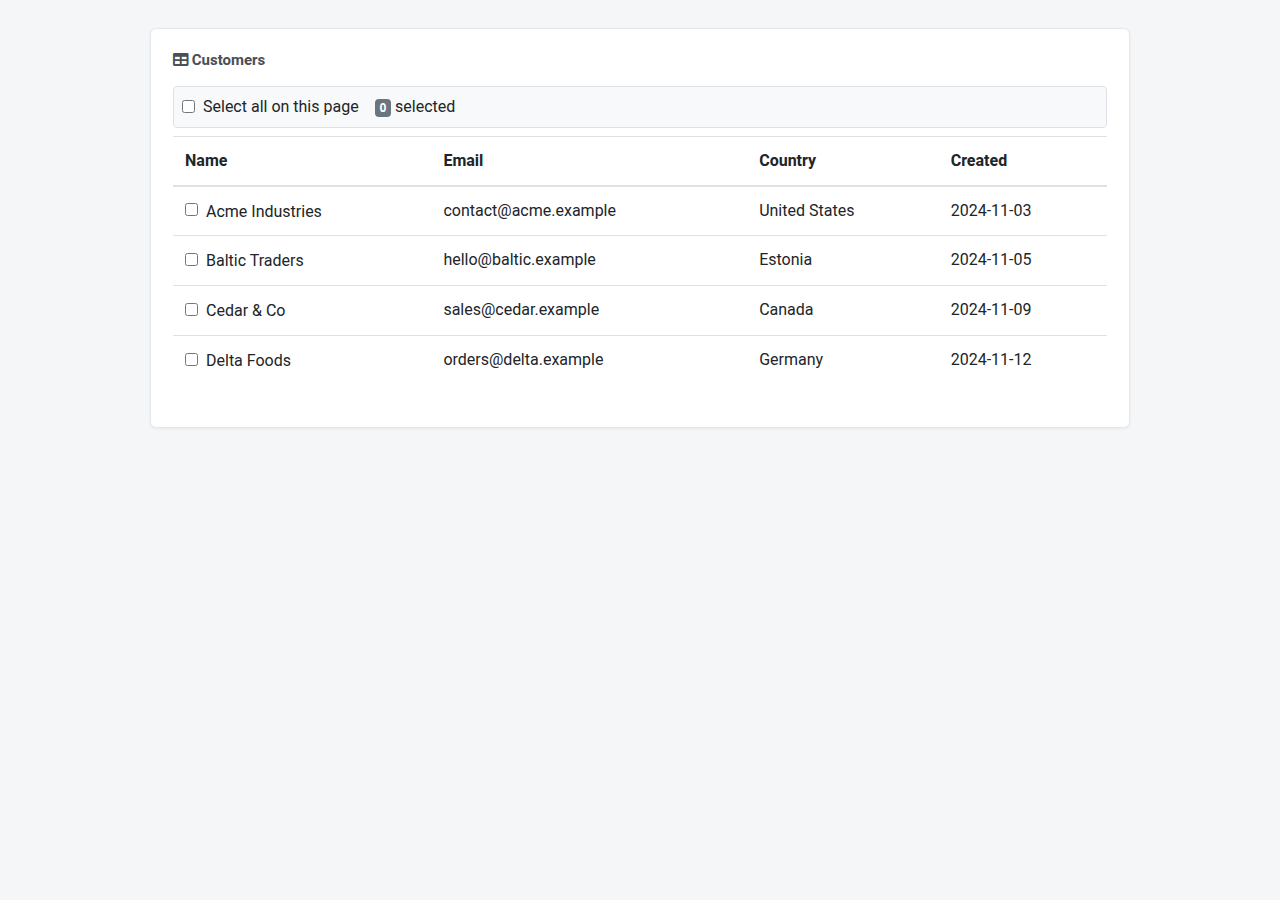
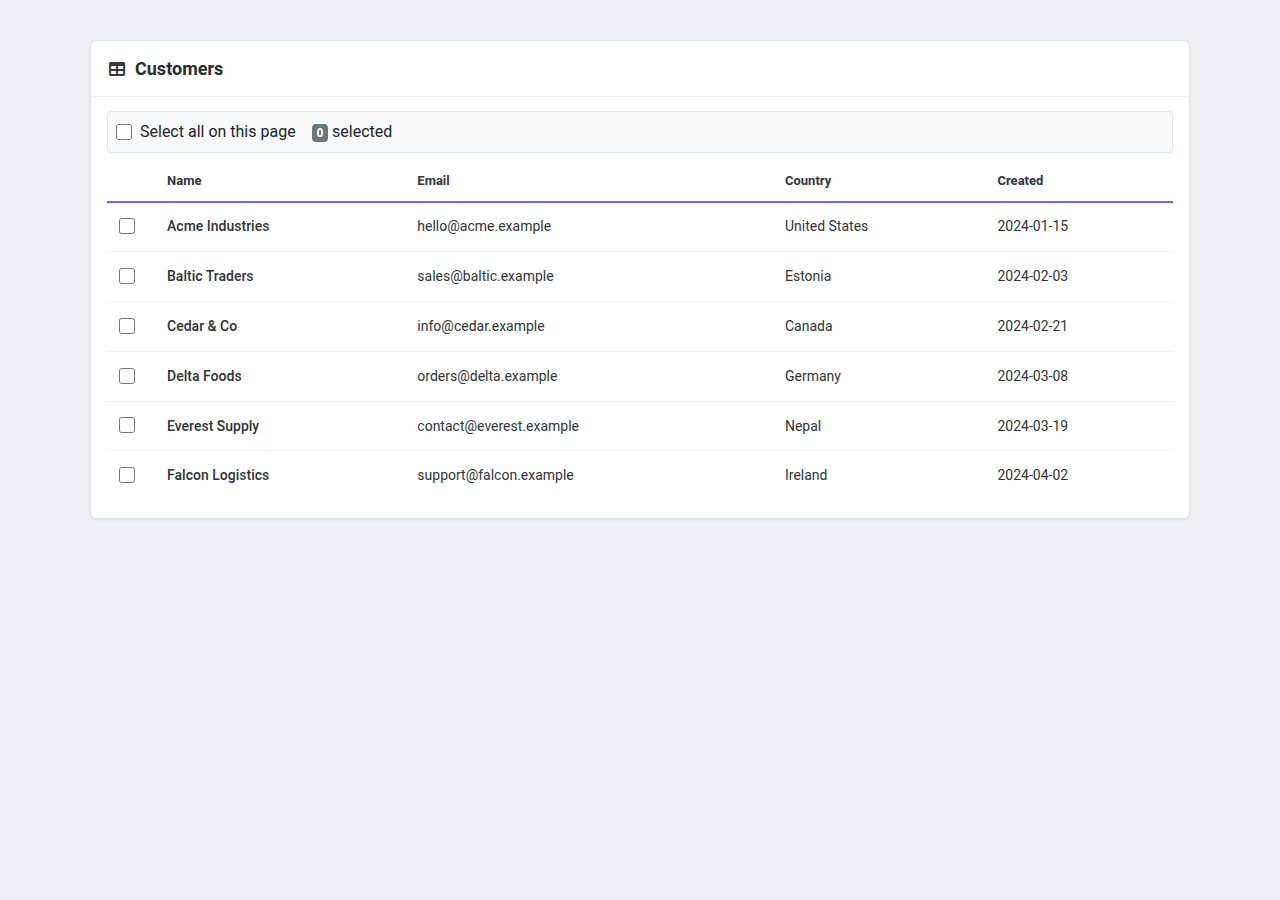
Refine PcGrid bulk-action messaging and executive summary deliverables
Reword the bulk archive and bulk delete result messages to active voice
across the REST controller and the PcGrid partial-failure fallback, so the
server-side and client-side wording read consistently.

Update the executive summary deck: add a Critical risk tier, align the
risk table to Critical, High, Medium, Medium, Low to match the critical
decision review, and raise the code-block contrast for readability.

Restructure the critical decision review into five risk-ordered decisions,
quote the exact delete confirmation wording, and correct the inline-script
source anchor.

Regenerate the selection-column, toolbar, and delete-confirmation
screenshots so they match the shipped confirmation wording and selection
counts.

Restore the local PostgreSQL connection string used for development.

diff --git a/blitzy-deck/bulk-actions-executive-summary.html b/blitzy-deck/bulk-actions-executive-summary.html
@@ -90,9 +90,10 @@
             font-size: 0.5em;
         }
         .reveal pre code {
-            background: rgba(4, 8, 22, 0.75);
-            color: #D7DCF5;
-            border: 1px solid var(--blitzy-surface-line);
+            display: block;
+            background: #05070F;
+            color: #F2F4FF;
+            border: 1px solid rgba(124, 92, 252, 0.5);
             border-radius: 12px;
             padding: 16px 18px;
             max-height: none;
@@ -184,6 +185,7 @@
         .reveal table tr:nth-child(even) td { background: rgba(124, 92, 252, 0.05); }
 
         .risk-pill { font-weight: 700; padding: 3px 10px; border-radius: 999px; font-size: 0.9em; white-space: nowrap; }
+        .risk-critical { background: var(--blitzy-danger); color: #FFFFFF; border: 1px solid #FF6B6B; box-shadow: 0 0 0 1px rgba(239, 68, 68, 0.55); }
         .risk-high { background: rgba(239, 68, 68, 0.16); color: #FF8A8A; border: 1px solid rgba(239, 68, 68, 0.4); }
         .risk-med { background: rgba(245, 158, 11, 0.16); color: #FFCB73; border: 1px solid rgba(245, 158, 11, 0.4); }
         .risk-low { background: rgba(34, 197, 94, 0.16); color: #86EFAC; border: 1px solid rgba(34, 197, 94, 0.4); }
@@ -501,7 +503,7 @@ return BuildBulkResponse(results, "deleted");   // 200 all ok, 207 mixed, 422 no
                 <tbody>
                     <tr>
                         <td>Permanent bulk delete removes records for good</td>
-                        <td><span class="risk-pill risk-high">High</span></td>
+                        <td><span class="risk-pill risk-critical">Critical</span></td>
                         <td>Count-aware confirmation names the permanence; per-record transaction; authorization per record.</td>
                         <td>Security lead</td>
                     </tr>

diff --git a/WebVella.Erp.Web/Controllers/WebApiController.cs b/WebVella.Erp.Web/Controllers/WebApiController.cs
@@ -1794,7 +1794,7 @@ namespace WebVella.Erp.Web.Controllers
 			{
 				Success = false,
 				Timestamp = DateTime.UtcNow,
-				Message = "The bulk " + actionNoun + " request could not be processed.",
+				Message = "The server could not process the bulk " + actionNoun + " request.",
 				Object = new List<BulkRecordActionResultItem>()
 			};
 			HttpContext.Response.StatusCode = (int)HttpStatusCode.InternalServerError;
@@ -1819,19 +1819,19 @@ namespace WebVella.Erp.Web.Controllers
 			if (failed == 0)
 			{
 				response.Success = true;
-				response.Message = "All " + total + " record(s) " + pastTenseAction + ".";
+				response.Message = "The server " + pastTenseAction + " all " + total + " record(s).";
 				HttpContext.Response.StatusCode = (int)HttpStatusCode.OK;
 			}
 			else if (succeeded == 0)
 			{
 				response.Success = false;
-				response.Message = "No record could be " + pastTenseAction + ".";
+				response.Message = "The server " + pastTenseAction + " no records.";
 				HttpContext.Response.StatusCode = (int)HttpStatusCode.UnprocessableEntity;
 			}
 			else
 			{
 				response.Success = false;
-				response.Message = succeeded + " of " + total + " record(s) " + pastTenseAction + ". " + failed + " failed.";
+				response.Message = "The server " + pastTenseAction + " " + succeeded + " of " + total + " record(s), and " + failed + " failed.";
 				HttpContext.Response.StatusCode = (int)HttpStatusCode.MultiStatus;
 			}
 
@@ -1894,7 +1894,7 @@ namespace WebVella.Erp.Web.Controllers
 			// Reject a cross-site request before any record changes. The check runs first so a forged
 			// cross-origin post never reaches the delete loop.
 			if (!IsBulkRequestOriginTrusted())
-				return BulkForbidden("The request origin is not allowed.");
+				return BulkForbidden("The server does not trust the request origin.");
 
 			List<Guid> recordIds;
 			// Validate the request and resolve entity metadata inside a guard so an unexpected failure
@@ -1925,20 +1925,20 @@ namespace WebVella.Erp.Web.Controllers
 						{
 							connection.CommitTransaction();
 							transactionStarted = false;
-							results.Add(BulkOk(id, "Record deleted."));
+							results.Add(BulkOk(id, "The server deleted the record."));
 						}
 						else
 						{
 							SafeRollbackBulk(connection, ref transactionStarted, "BulkDelete", model.EntityName, id);
 							LogBulkFailure("BulkDelete", model.EntityName, id, DescribeBulkFailure(r), null);
-							results.Add(MapBulkFailure(id, r, "The record could not be deleted."));
+							results.Add(MapBulkFailure(id, r, "The server could not delete the record."));
 						}
 					}
 					catch (Exception ex)
 					{
 						SafeRollbackBulk(connection, ref transactionStarted, "BulkDelete", model.EntityName, id);
 						LogBulkFailure("BulkDelete", model.EntityName, id, null, ex);
-						results.Add(BulkFail(id, "error", "The record could not be deleted."));
+						results.Add(BulkFail(id, "error", "The server could not delete the record."));
 					}
 				}
 			}
@@ -1956,7 +1956,7 @@ namespace WebVella.Erp.Web.Controllers
 			// Reject a cross-site request before any record changes. The check runs first so a forged
 			// cross-origin post never reaches the archive loop.
 			if (!IsBulkRequestOriginTrusted())
-				return BulkForbidden("The request origin is not allowed.");
+				return BulkForbidden("The server does not trust the request origin.");
 
 			List<Guid> recordIds;
 			// The bulk-archive write target is fixed to the approved field; a request cannot redirect it.
@@ -1973,7 +1973,7 @@ namespace WebVella.Erp.Web.Controllers
 				// field outside the allowlist gets rejected, so a caller cannot redirect the write.
 				var requestedField = string.IsNullOrWhiteSpace(model.ArchiveFieldName) ? BulkArchiveApprovedField : model.ArchiveFieldName.Trim();
 				if (!BulkArchiveAllowedFields.Contains(requestedField))
-					return BulkBadRequest("The requested archive field is not allowed.");
+					return BulkBadRequest("The server does not allow the requested archive field.");
 
 				// Confirm the approved field exists on the entity and is a checkbox (boolean). A missing or
 				// wrong-type field fails the whole request, so the server never reports a false archive.
@@ -2012,20 +2012,20 @@ namespace WebVella.Erp.Web.Controllers
 						{
 							connection.CommitTransaction();
 							transactionStarted = false;
-							results.Add(BulkOk(id, "Record archived."));
+							results.Add(BulkOk(id, "The server archived the record."));
 						}
 						else
 						{
 							SafeRollbackBulk(connection, ref transactionStarted, "BulkArchive", model.EntityName, id);
 							LogBulkFailure("BulkArchive", model.EntityName, id, DescribeBulkFailure(r), null);
-							results.Add(MapBulkFailure(id, r, "The record could not be archived."));
+							results.Add(MapBulkFailure(id, r, "The server could not archive the record."));
 						}
 					}
 					catch (Exception ex)
 					{
 						SafeRollbackBulk(connection, ref transactionStarted, "BulkArchive", model.EntityName, id);
 						LogBulkFailure("BulkArchive", model.EntityName, id, null, ex);
-						results.Add(BulkFail(id, "error", "The record could not be archived."));
+						results.Add(BulkFail(id, "error", "The server could not archive the record."));
 					}
 				}
 			}

diff --git a/docs/review/CRITICAL_DECISIONS.md b/docs/review/CRITICAL_DECISIONS.md
@@ -1,46 +1,46 @@
 # Critical Decision Review: PcGrid Bulk Archive and Bulk Delete
 
-The WebVella ERP team added bulk archive and bulk delete to the PcGrid list view. The feature lets a user select several records on the rendered page and act on the whole selection in one request, with a reversible Archive and a permanent Delete. The document below records the five highest-risk decisions behind that feature, ordered from highest risk to lowest. Each entry states the decision, the rationale, the risk level, and the reviewer persona who should sign off. Three concerns drove the ordering: irreversible data loss, authorization, and the assumptions that resolved gaps the prompt left open.
+The WebVella ERP team added bulk archive and bulk delete to the PcGrid list view. The feature lets a user select several records on the rendered page and act on the whole selection in one request, with a reversible Archive and a permanent Delete. The document below records the five highest-risk decisions behind that feature, ordered from highest risk to lowest. Each entry states the decision, the rationale, the risk level, and the reviewer persona who should sign off. The ranking follows the severity of each concern, starting with irreversible data loss, then authorization, then batch reliability and client placement, and ending with the assumptions that resolved gaps the prompt left open.
 
 The application code diff covers six files. The four PcGrid component files are `WebVella.Erp.Web/Components/PcGrid/PcGrid.cs`, `WebVella.Erp.Web/Components/PcGrid/Display.cshtml`, `WebVella.Erp.Web/Components/PcGrid/service.js`, and `WebVella.Erp.Web/Components/PcGrid/Options.cshtml`. The controller `WebVella.Erp.Web/Controllers/WebApiController.cs` gains the two bulk actions, and the new `WebVella.Erp.Web/Models/BulkRecordActionModel.cs` carries the request and per-record result models. The `Display.cshtml` view now renders the per-row selection checkboxes, the contextual toolbar, and the inline script, and `Options.cshtml` now exposes the admin configuration fields. Every new option defaults to off, so grids that do not opt in render as they do today.
 
 ## Decision 1: Permanent bulk delete removes records with no recovery path
 
-- **Decision:** Bulk delete calls `RecordManager.DeleteRecord` once per selected record (`WebVella.Erp/Api/RecordManager.cs:1627`), which permanently removes each record. The feature builds no trash bin and no restore path. The new `BulkDeleteRecords` action (`WebVella.Erp.Web/Controllers/WebApiController.cs:1892`) mirrors the single-record delete transaction template (`WebVella.Erp.Web/Controllers/WebApiController.cs:1408-1438`). The `Display.cshtml` inline script guards the action with a count-aware native `confirm()` dialog that runs before the request fires, with wording such as "Permanently delete N record(s)? The records cannot be recovered."
+- **Decision:** Bulk delete calls `RecordManager.DeleteRecord` once per selected record (`WebVella.Erp/Api/RecordManager.cs:1627`), which permanently removes each record. The feature builds no trash bin and no restore path. The new `BulkDeleteRecords` action (`WebVella.Erp.Web/Controllers/WebApiController.cs:1892`) mirrors the single-record delete transaction template (`WebVella.Erp.Web/Controllers/WebApiController.cs:1408-1438`). The `Display.cshtml` inline script guards the action with a count-aware native `confirm()` dialog that runs before the request fires, and the dialog reads "Permanently delete N record(s)? You cannot recover them."
 - **Rationale:** The prompt asks for a true delete alongside a reversible archive, so the delete stays permanent at the data layer. The confirmation follows the repository destructive-action convention that pairs a native `confirm()` with a jQuery ajax call (`WebVella.Erp.Web/TagHelpers/WvFieldUserFileMultiple/form.js:19-45`). The repository ships toastr for transient notifications through the WebVella tag-helper chrome but provides no styled confirmation modal, so the count-aware wording carries the permanence signal that a modal would otherwise supply, and the script falls back to a native `alert()` when toastr is absent.
 - **Risk level:** Critical. A wrong click destroys data for every selected record at once, and no undo exists.
 - **Reviewer persona:** Data-integrity or security reviewer.
 
-## Decision 2: Cross-origin requests cannot trigger the destructive bulk endpoints
+## Decision 2: Authorization runs per record, and cross-origin requests cannot trigger the bulk endpoints
 
-- **Decision:** Both bulk actions call `IsBulkRequestOriginTrusted()` (`WebVella.Erp.Web/Controllers/WebApiController.cs:1646`) as the first step and return 403 through `BulkForbidden()` (`WebVella.Erp.Web/Controllers/WebApiController.cs:1668`) when the `Origin` or `Referer` host does not match the request host, or when the request carries neither header. The endpoints accept only an `application/json` body bound through `[FromBody]`.
-- **Rationale:** The API authenticates with a cookie and applies no antiforgery token, which matches the single-record delete and update actions. A same-host `Origin` and `Referer` check, paired with the JSON-only contract, stops a cross-site page from driving a destructive bulk request with the signed-in user's cookie. The grid's own same-origin ajax passes the check without change, so the guard adds no friction to normal use.
-- **Risk level:** High. Without the check, a malicious page could submit a bulk delete on behalf of an authenticated user.
+- **Decision:** The bulk path constructs the default `RecordManager`, which keeps `ignoreSecurity` false and `executeHooks` true (`WebVella.Erp/Api/RecordManager.cs:40`). `DeleteRecord` checks `EntityPermission.Delete` for each record (`WebVella.Erp/Api/RecordManager.cs:1647`), and `UpdateRecord` checks `EntityPermission.Update` for each record (`WebVella.Erp/Api/RecordManager.cs:984`). `BulkArchiveRecords` adds a field-level guard: when the `is_archived` field turns on `EnableSecurity`, `CurrentUserCanUpdateSecuredField()` (`WebVella.Erp.Web/Controllers/WebApiController.cs:1686`) confirms the user holds a role in the field's `CanUpdate` list, and the action returns 403 otherwise. An administrator and the system user bypass the field check, which matches the field-security convention the repository already uses. Both bulk actions also call `IsBulkRequestOriginTrusted()` (`WebVella.Erp.Web/Controllers/WebApiController.cs:1646`) as the first step and return 403 through `BulkForbidden()` (`WebVella.Erp.Web/Controllers/WebApiController.cs:1668`) when the `Origin` or `Referer` host does not match the request host, or when the request carries neither header. The endpoints accept only an `application/json` body bound through `[FromBody]`.
+- **Rationale:** Routing every record through the same data-layer calls that the single-record actions use means the bulk operations inherit the entity-level permission checks and lifecycle hooks. A per-record check, rather than one check for the whole batch, stops a user from acting on any record they lack rights to, even when other records in the selection are allowed. The entity-level `UpdateRecord` check alone does not cover a secured field, so the archive path adds the field-level check to stop a user from flipping `is_archived` on an entity whose field restricts update. The API authenticates with a cookie and applies no antiforgery token, which matches the single-record delete and update actions, so a same-host `Origin` and `Referer` check paired with the JSON-only contract stops a cross-site page from driving a destructive bulk request with the signed-in user's cookie. The grid's own same-origin ajax passes the check without change. The code never passes `ignoreSecurity: true`.
+- **Risk level:** High. A weaker model would let a bulk request escalate beyond a user's single-record rights, and a missing origin check would let a malicious page submit a bulk delete on behalf of an authenticated user.
 - **Reviewer persona:** Security reviewer.
 
-## Decision 3: Authorization runs per record and adds a field-level archive check
+## Decision 3: Best-effort partial failure isolates each record in its own transaction
 
-- **Decision:** The bulk path constructs the default `RecordManager`, which keeps `ignoreSecurity` false and `executeHooks` true (`WebVella.Erp/Api/RecordManager.cs:40`). `DeleteRecord` checks `EntityPermission.Delete` for each record (`WebVella.Erp/Api/RecordManager.cs:1647`), and `UpdateRecord` checks `EntityPermission.Update` for each record (`WebVella.Erp/Api/RecordManager.cs:984`). `BulkArchiveRecords` adds a field-level guard: when the `is_archived` field turns on `EnableSecurity`, `CurrentUserCanUpdateSecuredField()` (`WebVella.Erp.Web/Controllers/WebApiController.cs:1686`) confirms the user holds a role in the field's `CanUpdate` list, and the action returns 403 otherwise. An administrator and the system user bypass the field check, which matches the field-security convention the repository already uses.
-- **Rationale:** Routing every record through the same data-layer calls that the single-record actions use means the bulk operations inherit the entity-level permission checks and lifecycle hooks. The entity-level `UpdateRecord` check alone does not cover a secured field, so the archive path adds the field-level check to stop a user from flipping `is_archived` on an entity whose field restricts update. A per-record check, rather than one check for the whole batch, stops a user from acting on any record they lack rights to, even when other records in the selection are allowed. The code never passes `ignoreSecurity: true`.
-- **Risk level:** High. A weaker model would let a bulk request escalate beyond a user's single-record rights.
-- **Reviewer persona:** Security reviewer.
+- **Decision:** The server processes every selected record inside its own `DbContext` transaction, commits the records that succeed, rolls back only the records that fail, continues past a failure, and returns a per-record result list. Each result is a `BulkRecordActionResultItem` that reports the record id, a success flag, a stable result code, and a user-safe message, wrapped in the existing `ResponseModel` envelope. `BuildBulkResponse()` (`WebVella.Erp.Web/Controllers/WebApiController.cs:1807`) sets the status from the outcome: 200 when every record succeeds, 207 when some succeed and some fail, and 422 when none succeed. `TryNormalizeBulkRequest()` (`WebVella.Erp.Web/Controllers/WebApiController.cs:1845`) caps a request at `BulkActionMaxRecords`, which is 1000 (`WebVella.Erp.Web/Controllers/WebApiController.cs:1633`).
+- **Rationale:** A single record's failure must not abort the batch, so per-record isolation lets the good records proceed while the server reports which records failed. The single-record actions already wrap each operation in a `DbContext` transaction with commit and rollback and log errors through `LogService` (`WebVella.Erp.Web/Controllers/WebApiController.cs:1538-1585`), so the bulk loop applies that same wrapper once per record. The request-size cap bounds the work a single call performs, which the page-scoped selection already limits on the client.
+- **Risk level:** Medium. Per-record isolation contains any single failure, and the per-record result list lets the client show which records succeeded, so a partial failure degrades cleanly rather than losing the whole batch.
+- **Reviewer persona:** Backend or reliability reviewer.
 
 ## Decision 4: Live client logic lives in the Display view, not service.js
 
 - **Decision:** The design places all live selection, confirmation, ajax, and refresh logic in an inline `<script>` block inside `WebVella.Erp.Web/Components/PcGrid/Display.cshtml`. The component `service.js` gains only Page Builder wiring for the new admin toggles.
-- **Rationale:** A component `service.js` reaches the browser only through the Page Builder editor, served at `/api/v3.0/pc/{name}/resource/service.js` (`WebVella.Erp.Web/Services/PageComponentLibraryService.cs:52`), so runtime page logic cannot live there. The repository already runs live Display-mode behavior from an inline script inside the Display view, as `PcApplications` and `PcJavaScriptBlock` do (`WebVella.Erp.Web/Components/PcJavaScriptBlock/Display.cshtml:9-11`). The script wraps its body in an IIFE, keys its root container by the component node id (`pcgrid-bulk-root-{id}`), and selects the row checkboxes by that same key through a `data-grid-key` attribute, so several PcGrids on one page never collide.
+- **Rationale:** A component `service.js` reaches the browser only through the Page Builder editor, served at `/api/v3.0/pc/{name}/resource/service.js` (`WebVella.Erp.Web/Services/PageComponentLibraryService.cs:52`), so runtime page logic cannot live there. The repository already runs live Display-mode behavior from an inline script inside the Display view, as `PcApplications` and `PcJavaScriptBlock` do (`WebVella.Erp.Web/Components/PcJavaScriptBlock/Display.cshtml:10-12`). The script wraps its body in an IIFE, keys its root container by the component node id (`pcgrid-bulk-root-{id}`), and selects the row checkboxes by that same key through a `data-grid-key` attribute, so several PcGrids on one page never collide.
 - **Risk level:** Medium. A wrong placement would ship code that never runs on live pages and would break the feature silently.
 - **Reviewer persona:** Frontend or architecture reviewer.
 
-## Decision 5: Best-effort partial failure, the is_archived allowlist, and the admin entity name (ambiguities resolved)
+## Decision 5: The admin entity name and the pre-existing is_archived allowlist resolve the prompt's ambiguities
 
-- **Decision:** The server processes every selected record inside its own `DbContext` transaction, commits the records that succeed, rolls back only the records that fail, continues past a failure, and returns a per-record result list. Each result is a `BulkRecordActionResultItem` that reports the record id, a success flag, a stable result code, and a user-safe message, wrapped in the existing `ResponseModel` envelope. `BuildBulkResponse()` (`WebVella.Erp.Web/Controllers/WebApiController.cs:1807`) sets the status from the outcome: 200 when every record succeeds, 207 when some succeed and some fail, and 422 when none succeed. `TryNormalizeBulkRequest()` (`WebVella.Erp.Web/Controllers/WebApiController.cs:1845`) caps a request at `BulkActionMaxRecords`, which is 1000 (`WebVella.Erp.Web/Controllers/WebApiController.cs:1633`). Bulk archive writes only `is_archived` through `UpdateRecord` (`WebVella.Erp/Api/RecordManager.cs:952`), locks the write to the `BulkArchiveAllowedFields` allowlist (`WebVella.Erp.Web/Controllers/WebApiController.cs:1638`), rejects any other caller-supplied field name, and confirms from entity metadata that the field exists as a checkbox before it processes the batch. PcGrid supplies the target entity name from an administrator-configured `entity_name` option (`WebVella.Erp.Web/Components/PcGrid/PcGrid.cs:118`), because neither `EntityRecord` nor `EntityRecordList` carries one (`WebVella.Erp/Api/Models/EntityRecordList.cs:6-9`), and computes archive availability from the same metadata so Archive stays hidden unless `is_archived` exists as a checkbox on the entity (`WebVella.Erp.Web/Components/PcGrid/PcGrid.cs:597-640`).
-- **Rationale:** A single record's failure must not abort the batch, so per-record isolation lets the good records proceed while the server reports which records failed. The single-record actions already wrap each operation in a `DbContext` transaction with commit and rollback and log errors through `LogService` (`WebVella.Erp.Web/Controllers/WebApiController.cs:1538-1585`), so the bulk loop applies that same wrapper once per record. The `is_archived` flag already serves as a soft-delete convention elsewhere in the repository, where a job archives records by setting `is_archived` to true (`jira-stories/STORY-006-notification-escalation-jobs.md`), so Archive reuses the field rather than defining new schema. The allowlist stops a caller from steering the write to any other boolean field, and the up-front metadata check stops a silent no-op when the field is missing or holds the wrong type, because `UpdateRecord` skips unknown fields without error. An administrator-configured entity name removes the guesswork, because the rendered records expose no entity name on their own.
-- **Risk level:** Medium. Archive reverses easily and per-record isolation contains any single failure, but a blank or wrong entity name would target the wrong entity, so the availability gate, the request-size cap, and the per-record permission checks all still apply.
-- **Reviewer persona:** Backend or reliability reviewer.
+- **Decision:** PcGrid supplies the target entity name from an administrator-configured `entity_name` option (`WebVella.Erp.Web/Components/PcGrid/PcGrid.cs:118`), because neither `EntityRecord` nor `EntityRecordList` carries one (`WebVella.Erp/Api/Models/EntityRecordList.cs:6-9`). Bulk archive writes only `is_archived` through `UpdateRecord` (`WebVella.Erp/Api/RecordManager.cs:952`), locks the write to the `BulkArchiveAllowedFields` allowlist (`WebVella.Erp.Web/Controllers/WebApiController.cs:1638`), rejects any other caller-supplied field name, and confirms from entity metadata that the field exists as a checkbox before it processes the batch. PcGrid computes archive availability from the same metadata, so Archive stays hidden unless `is_archived` exists as a checkbox on the entity (`WebVella.Erp.Web/Components/PcGrid/PcGrid.cs:597-640`).
+- **Rationale:** An administrator-configured entity name removes the guesswork, because the rendered records expose no entity name on their own. The `is_archived` flag already serves as a soft-delete convention elsewhere in the repository, where a job archives records by setting `is_archived` to true (`jira-stories/STORY-006-notification-escalation-jobs.md`), so Archive reuses the field rather than defining new schema. The allowlist stops a caller from steering the write to any other boolean field, and the up-front metadata check stops a silent no-op when the field is missing or holds the wrong type, because `UpdateRecord` skips unknown fields without error.
+- **Risk level:** Low. Archive reverses easily, the availability gate hides the action when the field is absent, and the request-size cap and the per-record permission checks all still apply, so a blank or wrong entity name fails safe rather than harming data.
+- **Reviewer persona:** Backend or product reviewer.
 
 ## Explicit callouts
 
 - **Irreversible operation:** Decision 1 covers the permanent bulk delete. A per-record permission check and a per-record transaction guard the backend action, and a count-aware, permanence-explicit `confirm()` dialog in the Display script guards the action on the client.
-- **Authorization decisions:** Decision 3 covers the per-record `EntityPermission.Delete` and `EntityPermission.Update` checks that run through the default `RecordManager`, plus the field-level check that guards a secured `is_archived` field. Decision 2 covers the cross-origin rejection that blocks a destructive request from an untrusted page.
+- **Authorization decisions:** Decision 2 covers the per-record `EntityPermission.Delete` and `EntityPermission.Update` checks that run through the default `RecordManager`, the field-level check that guards a secured `is_archived` field, and the cross-origin rejection that blocks a destructive request from an untrusted page.
 - **Ambiguity-resolving assumptions:** Decision 5 resolves the missing entity name with an administrator-configured `entity_name` option, and treats `is_archived` as a pre-existing field with no schema or migration, locked to an allowlist and gated by an entity-metadata availability check. Decision 4 resolves the client-script placement question by following the repository's inline Display-mode convention.
